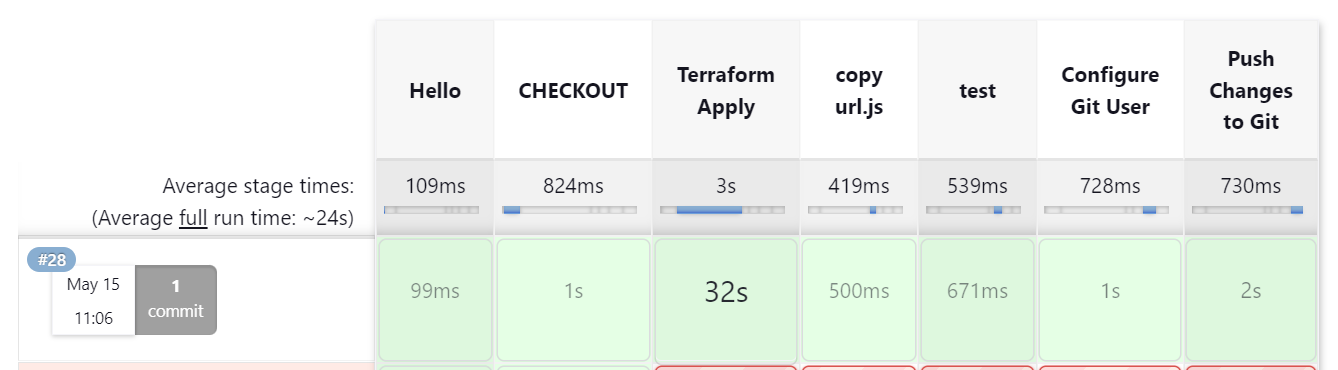
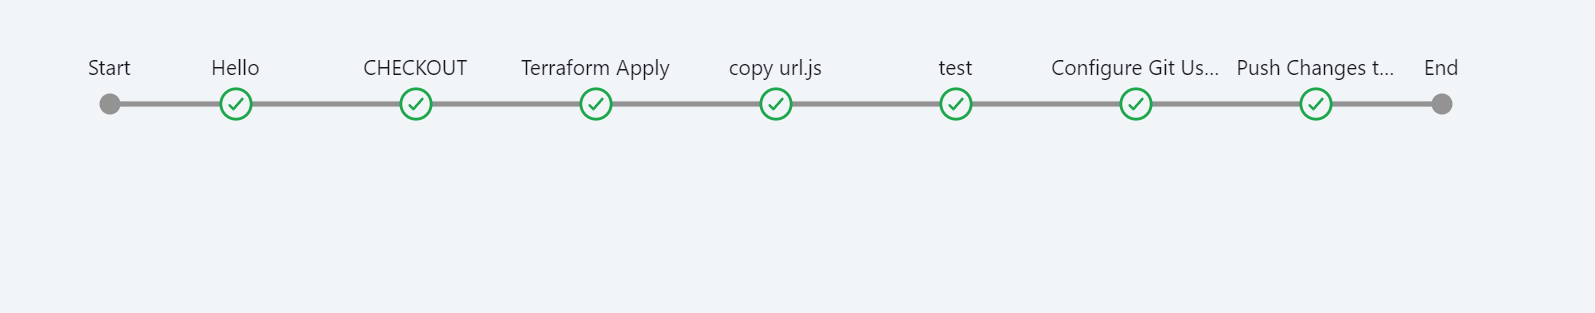
pipeline2 done

diff --git a/README.md b/README.md
@@ -109,10 +109,15 @@ To established connection between backend and frontend instances, backend ip add
 * Instance ip updated in inventory and url.js file by first jenkins pipeline.
 * Then procede with the deployments using ansible.
 
-* steps follows in pipeline
+* steps follows in pipeline, code updated in jenkinsfile2
+![alt text](pics/ansible_pipeline.PNG)
+
 1. Clone code from github.
 2. Build image with latest changes.
 3. Pushed the image into docker hub.
 4. Deploy the application in instance using ansible-playbook.
+5. Output images are mentioned in pics folder named ansible_frontend and ansible_backend
 
+---------------------
+# NEXT!!!!!!!!!!!!!
 
